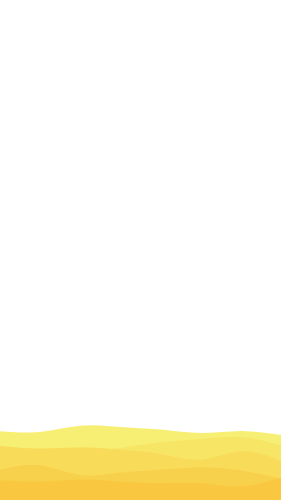
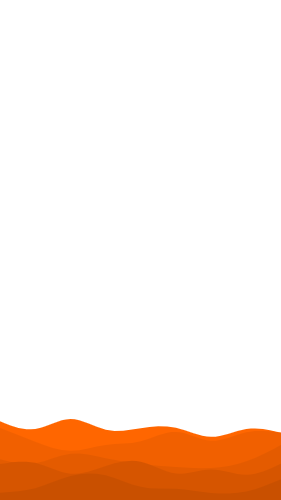
added introduction to homepage

Changed region(s): [[0.0, 0.84, 1.0, 1.0]]

diff --git a/src/components/header/header.css b/src/components/header/header.css
@@ -13,13 +13,26 @@
     box-sizing: border-box;
     padding: 0px 5vw 0px 5vw;
     background-color: #FF6600;
-
 }
 
 
-.headerContainer > p {
+.headerLogoContainer{
+    height: 100%;
+    width: 50%;
+    display: flex;
+    flex-direction: row;
+    align-items: center;
+    justify-content: start;
+}
+.headerLogoContainer > a{
+  width: 40%;
+}
+.headerLogoContainer > a > img {
+    width: 90%;
+}
+.headerLogoContainer > p {
     margin: 0;
-    font-size: clamp(12px , 7vw , 50px);
+    font-size: clamp(12px , 7vw , 40px);
     font-family: 'lilita_oneregular';
 }
 
@@ -37,7 +50,7 @@
 }
 
 .hamburgerButton > div {
-    background-color: #fff;
+    background-color: rgba(60, 65,55,1);
     width: 100%;
     height: 12.5%;
     border-radius: 2vw;
@@ -59,7 +72,7 @@
 .hamburgerMenu{
     position:absolute;
     background-color: #FF6600;
-    border-left: 2px double rgba(60, 65,55,1);
+    border-left: 2px solid rgba(60, 65,55,1);
     width: 65vw;
     height: 100vh;
     top: 10vh;
@@ -67,7 +80,7 @@
     right: -65vw;
     transition: 0.5s ease-in-out;
     opacity: 0;
-    z-index: 0;
+    z-index: 99;
 
     display: flex;
     flex-direction: column;

diff --git a/src/components/header/headerComp.jsx b/src/components/header/headerComp.jsx
@@ -1,7 +1,7 @@
 import { useState } from 'react'
 import { useNavigate } from 'react-router-dom';
 import './header.css'
-
+import questRoomLogo from "/src/assets/quest-room-LOGO.png"
 
 function HeaderComponent() {
 
@@ -43,7 +43,11 @@ function HeaderComponent() {
 
   return (
     <header className="headerContainer">
-    <p>KEY <br/> TIME </p>
+      <div className="headerLogoContainer">
+      <a><img src={questRoomLogo}/></a>
+      <p>KEY <br/> TIME </p>
+      </div>
+    
     <button className='hamburgerButton' onClick={hamburgerHandler}>
         <div className="hamburgerButtonRow1"></div>
         <div className="hamburgerButtonRow2"></div>
@@ -51,7 +55,7 @@ function HeaderComponent() {
     </button>
     <div className="hamburgerMenu">
        <button onClick={navigateHome} >ACASA</button>
-       <button onClick={navigateWork}>NOUTATI</button>
+       
        <button onClick={navigateAbout}>DESPRE NOI</button>
        <button onClick={navigateToContacts}>CONTACTE</button>
     </div>
@@ -60,3 +64,4 @@ function HeaderComponent() {
 }
 
 export default HeaderComponent
+//<button onClick={navigateWork}>NOUTATI</button>

diff --git a/src/components/homePageComponents/introduction/IntroductionComp.jsx b/src/components/homePageComponents/introduction/IntroductionComp.jsx
@@ -1,0 +1,20 @@
+
+import './Introduction.css'
+
+function Introduction() {
+
+  return (
+   <div className='introductionContainer'>
+   <p className='introductionHeader'>Cine suntem noi ?</p>
+   <p className='introductionContent'>KeyTime este o companie de quest roomuri,
+     oferind două camere tematice unice: "Circus" și "Mummy".
+      Suntem pasionați de a oferi experiențe captivante și provocatoare,
+       care testează abilitățile de rezolvare a problemelor,
+        gândirea creativă și colaborarea cu prietenii și familia.
+         Alătură-te nouă la KeyTime pentru o aventură de neuitat într-o lume
+          plină de mistere și pericole!</p>
+   </div>
+  )
+}
+
+export default Introduction

diff --git a/src/components/homePageComponents/introduction/Introduction.css b/src/components/homePageComponents/introduction/Introduction.css
@@ -1,0 +1,28 @@
+.introductionContainer{
+    border:4px solid #ca5100;
+    border-radius: 20px;
+    width: 100%;
+    height: auto;
+    display: flex;
+    flex-direction: column;
+    align-items: center;
+    justify-content: start;
+    position: relative;
+    padding: 2.5vh 5vw 2.5vh 5vw;
+    box-sizing: border-box;
+
+}
+.introductionHeader{
+    margin: 0;
+    font-size: clamp(12px , 8vw , 40px);
+    font-family: 'lilita_oneregular';
+    position: absolute;
+    top: 0;
+    transform: translateY(calc(-50% - 4px));
+    background-color: #FF6600;
+}
+.introductionContent{
+    font-size: clamp(12px , 4.5vw , 40px);
+    font-weight: 900;
+    text-align: center;
+}

diff --git a/src/components/footer/footerComp.jsx b/src/components/footer/footerComp.jsx
@@ -1,6 +1,8 @@
 
 import './footer.css'
 import InstagramIcon from "/src/assets/instagramIcon.png"
+import EmailIcon from "/src/assets/mailIcon.png"
+import FacebookIcon from "/src/assets/facebookIcon.png"
 
 function FooterComponent() {
 
@@ -11,8 +13,8 @@ function FooterComponent() {
 
   <div className="footerMediaContainer">
     <a><img src={InstagramIcon}/></a>
-    <a><img src={InstagramIcon}/></a>
-    <a><img src={InstagramIcon}/></a>
+    <a><img src={FacebookIcon}/></a>
+    <a><img src={EmailIcon}/></a>
   </div>
   <p>© KeyTime</p>
 

diff --git a/src/pages/home.jsx b/src/pages/home.jsx
@@ -2,7 +2,7 @@ import { useState } from 'react'
 
 import HeaderComponent from '../components/header/headerComp'
 import FooterComponent from '../components/footer/footerComp'
-import HomePageGrid from '../components/homePageComponents/homePageGrid'
+import Introduction from '../components/homePageComponents/introduction/IntroductionComp'
 
 function HomePage() {
 
@@ -10,6 +10,7 @@ function HomePage() {
     <>
     <HeaderComponent/>
     <div className="WebsiteContent">
+      <Introduction/>
     </div>
     <FooterComponent/>
     </>

diff --git a/src/components/footer/footer.css b/src/components/footer/footer.css
@@ -20,16 +20,15 @@
     z-index: -1;
     background: url('/src/assets/footerWave.png');
     background-position:bottom;
-    background-size: 100% 80vh;
+    background-size: 100% 100vh;
     background-repeat: no-repeat;
 
 }
 
 .footerContainer > p {
-    z-index: 5;
-    color: rgb(25 , 25, 75);
+    z-index: 2;
+    color:rgba(60, 65,55,1);
     font-size: clamp(10px,10vw,20px);
-    font-weight: 900;
     margin: 0.5rem;
 }
 
